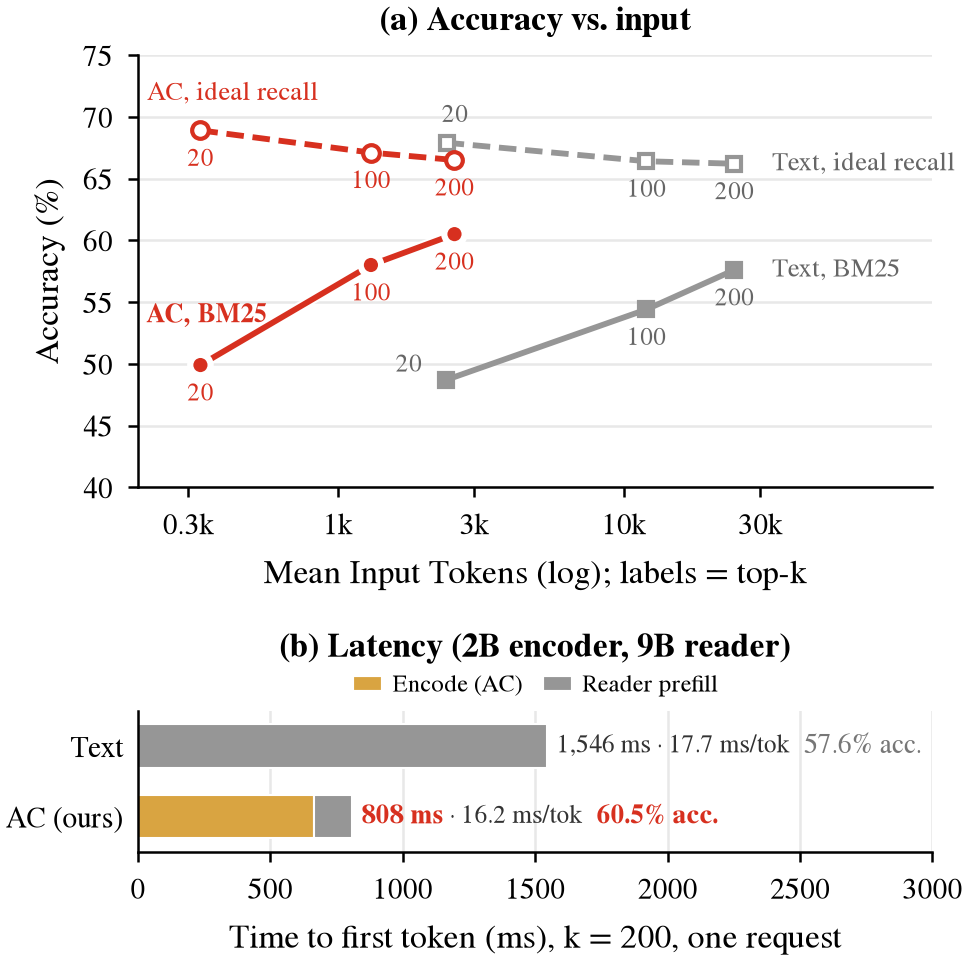
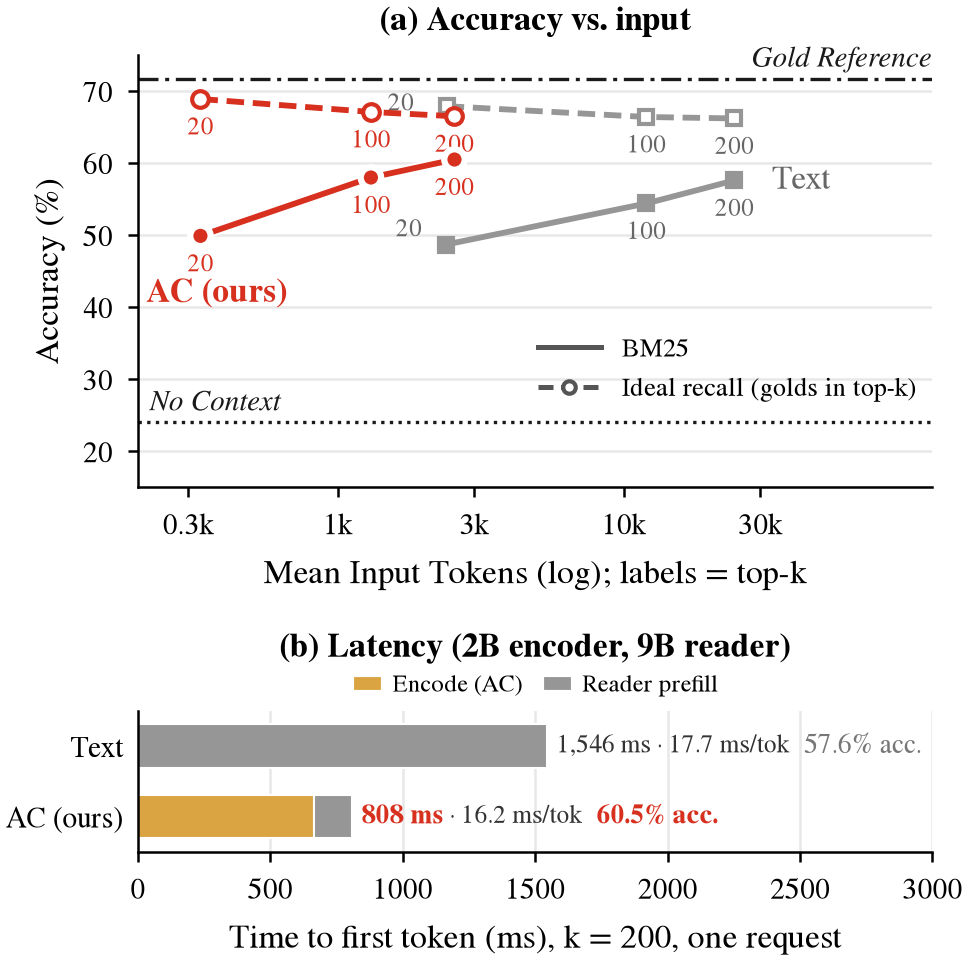
§3.1 test figure: gold-reference and no-context lines (untuned 9B, test1000)

diff --git a/IB/ARTIFACTS/PRE_REBUTTAL/sec35/figs/make_fig_retrieval_s31.py b/IB/ARTIFACTS/PRE_REBUTTAL/sec35/figs/make_fig_retrieval_s31.py
@@ -5,8 +5,9 @@ only; untuned text as the comparison; NO text + LoRA line yet).
     Accuracies: HotpotQA dev1000, greedy, cap 1024, one scorer, read from scoreboard.json (written by ../scoreboard.py).
     x positions: the paper's mean input tokens (eval500; text 2,396 / 11,996 / 24,351, ideal 2,402 / 11,996 / 24,350; AC 331 / 1,306 / 2,559)
     -- the dev1000 means are not yet computed (same corpus and BM25, so expected within a few percent).
-    Gold-reference and no-context lines and the Select -> text baseline are left out: they were measured on eval500 with the old sampled
-    scorer and have no dev1000 read yet.
+    Gold reference (untuned 9B, two gold passages only) and no context (question alone): horizontal lines from ../refs.json
+    (test_table.py; reads by jobs/rq_ref_orcd.sh, 2026-11-15), same split and scorer; drawn only when present. The Select -> text
+    baseline stays out (eval500, old sampled scorer, no new read).
 (b) TTFT at k = 200 (paper's systems measurement, unchanged: IB/TMP/PAPER_SYSTEMS setup B), Text and AC only; accuracy annotations are
     the new BM25 k = 200 numbers.
 Run: uv run --no-project --python 3.13 --with matplotlib python make_fig_retrieval_s31.py [test]   (default dev1000 draft)
@@ -18,6 +19,7 @@ import matplotlib
 matplotlib.use("Agg")
 import matplotlib.pyplot as plt
 from matplotlib.gridspec import GridSpec
+from matplotlib.lines import Line2D
 
 HERE = Path(__file__).resolve().parent
 PW = HERE.parents[2] / "PAPER_WRITING"
@@ -33,6 +35,8 @@ if SPLIT == "test":
 else:
     SB = json.loads((HERE.parent / "scoreboard.json").read_text())["systems"]; AC_RUN, TEXT_RUN = "T_res_rq9fr_kI_KL", "text_base"
 K = [20, 100, 200]
+_rp = HERE.parent / "refs.json"
+REF = json.loads(_rp.read_text()).get("test1000" if SPLIT == "test" else "dev1000", {}) if _rp.exists() else {}
 TOK = dict(text_bm25=[2.396, 11.996, 24.351], text_ideal=[2.402, 11.996, 24.350], ac=[0.331, 1.306, 2.559])
 
 
@@ -42,7 +46,12 @@ def accs(run, kind):
 
 
 def panel_acc(ax):
-    R.clean(ax); ax.set_xscale("log"); ax.set_xlim(0.2, 120); ax.set_ylim(40, 75)
+    lo = min(40, 5 * int((REF["none"] - 6) // 5)) if "none" in REF else 40
+    R.clean(ax); ax.set_xscale("log"); ax.set_xlim(0.2, 120); ax.set_ylim(lo, 75)
+    if "gold" in REF:
+        R.ref(ax, REF["gold"], R.LS_GOLD, "Gold Reference")
+    if "none" in REF:
+        R.ref(ax, REF["none"], R.LS_DOT, "No Context", x=0.22, ha="left")
     tb, ti, ab, ai = accs(TEXT_RUN, "bm25"), accs(TEXT_RUN, "ideal"), accs(AC_RUN, "bm25"), accs(AC_RUN, "ideal")
     ax.plot(TOK["text_bm25"], tb, marker="s", color=R.G_MID, ms=3.4, zorder=3)
     ax.plot(TOK["ac"], ab, marker="o", color=R.OURS, ms=4.0, mec="white", mew=0.6, zorder=4, path_effects=R.HALO)
@@ -50,13 +59,14 @@ def panel_acc(ax):
     ax.plot(TOK["ac"], ai, marker="o", color=R.OURS, ms=4.0, ls=DASH, mfc="white", mec=R.OURS, mew=1.0, zorder=4)
     F.labels(ax, TOK["text_bm25"], tb, K, "#666666", {0: (-9, 2)})
     F.labels(ax, TOK["ac"], ab, K, R.OURS, {})
-    F.labels(ax, TOK["text_ideal"], ti, K, "#666666", {0: (2, 5)})
+    F.labels(ax, TOK["text_ideal"], ti, K, "#666666", {0: (2, 5)} if "gold" not in REF else {0: (-11, -1)})
     F.labels(ax, TOK["ac"], ai, K, R.OURS, {})
-    kw = dict(fontsize=6.3, va="center")
-    ax.text(0.215, ai[0] + 3.0, "AC, ideal recall", color=R.OURS, **kw)
-    ax.text(0.215, ab[0] + 4.0, "AC, BM25", color=R.OURS, fontweight="bold", **kw)
-    ax.text(TOK["text_ideal"][2] * 1.35, ti[2], "Text, ideal recall", color="#666666", ha="left", **kw)
-    ax.text(TOK["text_bm25"][2] * 1.35, tb[2], "Text, BM25", color="#666666", ha="left", **kw)
+    # as the paper's Fig. 3: one name per system + a BM25 / ideal-recall legend (the gold line leaves no room for per-line labels)
+    ax.text(0.215, ab[0] - 8.0, "AC (ours)", color=R.OURS, fontsize=R.LAB, fontweight="bold", va="center")
+    ax.text(TOK["text_bm25"][2] * 1.35, tb[2], "Text", color="#666666", fontsize=R.LAB, ha="left", va="center")
+    h = [Line2D([], [], color="#555555", lw=1.2, label="BM25"),
+         Line2D([], [], color="#555555", lw=1.2, ls=DASH, marker="o", ms=3, mfc="white", label="Ideal recall (golds in top-k)")]
+    ax.legend(handles=h, loc="lower right", bbox_to_anchor=(1.0, 0.16), fontsize=6.3, handlelength=2.4, borderaxespad=0.2)
     ax.set_xticks([0.3, 1, 3, 10, 30]); ax.set_xticklabels(["0.3k", "1k", "3k", "10k", "30k"]); ax.minorticks_off()
     ax.set_xlabel("Mean Input Tokens (log); labels = top-k"); ax.set_ylabel("Accuracy (%)"); ax.set_title("(a) Accuracy vs. input")
 

diff --git a/IB/ARTIFACTS/PRE_REBUTTAL/sec35/test_table.py b/IB/ARTIFACTS/PRE_REBUTTAL/sec35/test_table.py
@@ -90,6 +90,30 @@ out += ["\n## Main row − untuned text, same setting\n", "| 20I | 100I | 200I |
         "\n## Main row at k=100 / 200 − text at plain k=20\n", "| AC k | vs untuned k=20 | vs text + LoRA k=20 |", "|---|---|---|"]
 for kk in ("bm25_k100", "bm25_k200"):
     out.append(f"| {kk[6:]} | {cell(V['ac'][kk], V['text_base']['bm25_k20'])} | {cell(V['ac'][kk], V['text_lora']['bm25_k20'])} |")
+# reference lines (2026-11-15, jobs/rq_ref_orcd.sh): untuned 9B with the two gold passages only (the KL teacher's view) and with the question
+# alone; hotpot_tasks_v2 rows, same scorer. refs.json also carries dev1000 for the dev draft of the figure.
+QD = {r["id"]: r for r in rows(DATA / "hotpot_tasks_v2/dev1000.jsonl")}
+REFS, RV = {}, {}
+for split, q in (("test1000", Q20), ("dev1000", QD)):
+    for view in ("gold", "none"):
+        p = OUTS / "orcd_rq_eval_test_refs" / f"text_base_{view}.{split}.jsonl"
+        if not Path(str(p)[:-len(".jsonl")] + ".summary.json").exists():
+            continue
+        v = {r["id"]: score(r.get("pred"), q[r["id"]])["acc"] for r in rows(p) if r["id"] in q}
+        assert len(v) == 1000, f"{p}: {len(v)} rows"
+        want = json.loads(Path(str(p)[:-len(".jsonl")] + ".summary.json").read_text()).get("acc")
+        if want is not None and abs(acc(v) - want) > 0.05:
+            checks.append(f"{p.name}: rescored {acc(v):.1f} vs summary {want}")
+        REFS.setdefault(split, {})[view] = round(acc(v), 2); RV[(split, view)] = v
+if ("test1000", "gold") in RV:
+    g = RV[("test1000", "gold")]
+    out += ["\n## Reference lines (untuned 9B, test1000)\n",
+            f"Gold reference (two gold passages only): **{acc(g):.1f}**; no context (question alone): "
+            + (f"**{acc(RV[('test1000', 'none')]):.1f}**" if ("test1000", "none") in RV else "–") + "\n",
+            "| | 20I | 100I | 200I |", "|---|---|---|---|"]
+    for label, stem, _ in SYSTEMS[:2]:
+        out.append(f"| {label} − gold reference | " + " | ".join(cell(V[stem][s], g) for s in ("20I", "100I", "200I")) + " |")
+(HERE / "refs.json").write_text(json.dumps(REFS, indent=1) + "\n")
 out.append("\n" + ("**Rescore mismatches:** " + "; ".join(checks) if checks else "All outputs re-scored to their summary accuracy (±0.05)."))
 (HERE / "TEST.md").write_text("\n".join(out) + "\n")
 data = {"systems": {stem: {"label": label, **{s: {"acc": round(acc(V[stem][s]), 2), "n": 1000} for s in SETTINGS if V[stem][s] is not None}}

diff --git a/IB/ARTIFACTS/PRE_REBUTTAL/sec35/jobs/ref_view_eval.py b/IB/ARTIFACTS/PRE_REBUTTAL/sec35/jobs/ref_view_eval.py
@@ -1,0 +1,18 @@
+"""§3.1 reference lines (2026-11-15, user: put the gold reference back in the figure): text_lora_eval_hf.py unchanged, with the reader's
+view swapped before main() runs, so decode, scorer and output format are the text rows' exactly (greedy, cap --max-new, rq_common.score).
+  gold  the gold-view teacher's prompt (rq_common.teacher_messages): READ over the row's two gold passages only, in q["golds"] order
+  none  rq_common.NO_PASSAGES: the question alone (closed book)
+  python ref_view_eval.py gold|none --data DIR --split test1000 --base --out OUT.jsonl [...]   (needs $C/text_lora, $C/kit, $C/rq_kit on PYTHONPATH)
+"""
+import sys
+
+VIEW = sys.argv.pop(1)
+assert VIEW in ("gold", "none"), VIEW
+import text_lora_eval_hf as M  # noqa: E402
+
+if VIEW == "gold":
+    M.row_passages = lambda r: [int(x) for x in r["golds"]]
+else:
+    M.row_passages = lambda r: []
+    M.C.READ = M.C.NO_PASSAGES          # .format(passages="", question=...) ignores the unused passages field
+M.main()

diff --git a/IB/ARTIFACTS/PRE_REBUTTAL/sec35/PLAN.md b/IB/ARTIFACTS/PRE_REBUTTAL/sec35/PLAN.md
@@ -127,3 +127,9 @@
   k200 60.5/57.6/65.7. Main − untuned significant only on plain BM25 k=100 (+3.6, p=0.002) and k=200 (+2.9, p=0.021); the injected-gold
   settings tie on test (+1.0/+0.7/+0.3), so the dev 100I/200I gains (+3.1/+2.5) did not hold up. AC k=200 beats text + LoRA at k=20 (+4.2, p=0.008).
   Frozen 4B KL (20I, no stage 2) dev reads done (record only; 4B is out of §3.1).
+
+- 2026-11-15 (user: put the gold reference back): jobs/rq_ref_orcd.sh + jobs/ref_view_eval.py (text_lora_eval_hf.py unchanged, view swapped:
+  gold = READ over the two gold passages, the KL teacher's prompt; none = rq_common.NO_PASSAGES), untuned 9B, greedy, cap 1024, same scorer.
+  test1000: gold reference 71.7, no context 24.0 (165 of 1000 hit the 1024 cap). Main − gold: 20I −2.8 (p=0.005), 100I −4.6, 200I −5.2;
+  untuned text − gold: −3.8 / −5.3 / −5.5 (all p<0.001). Figure: both lines added (refs.json), labels switched to the paper's style
+  (one name per system + BM25 / ideal-recall legend) because the gold line ran through the per-line labels. dev1000 refs still reading.

diff --git a/IB/ARTIFACTS/PRE_REBUTTAL/sec35/TEST.md b/IB/ARTIFACTS/PRE_REBUTTAL/sec35/TEST.md
@@ -21,4 +21,13 @@ Paired on the same 1,000 test questions: delta [95% bootstrap CI], exact McNemar
 | 100 | **+9.3** [+6.8, +11.9] p<0.001 | +1.7 [-0.9, +4.4] p=0.264 |
 | 200 | **+11.8** [+9.3, +14.5] p<0.001 | **+4.2** [+1.5, +7.2] p=0.008 |
 
+## Reference lines (untuned 9B, test1000)
+
+Gold reference (two gold passages only): **71.7**; no context (question alone): **24.0**
+
+| | 20I | 100I | 200I |
+|---|---|---|---|
+| Text, untuned − gold reference | **-3.8** [-5.4, -2.3] p<0.001 | **-5.3** [-7.4, -3.1] p<0.001 | **-5.5** [-7.7, -3.4] p<0.001 |
+| AC KL stage 2, frozen reader (MAIN) − gold reference | **-2.8** [-4.7, -1.0] p=0.005 | **-4.6** [-6.6, -2.6] p<0.001 | **-5.2** [-7.3, -3.1] p<0.001 |
+
 All outputs re-scored to their summary accuracy (±0.05).
